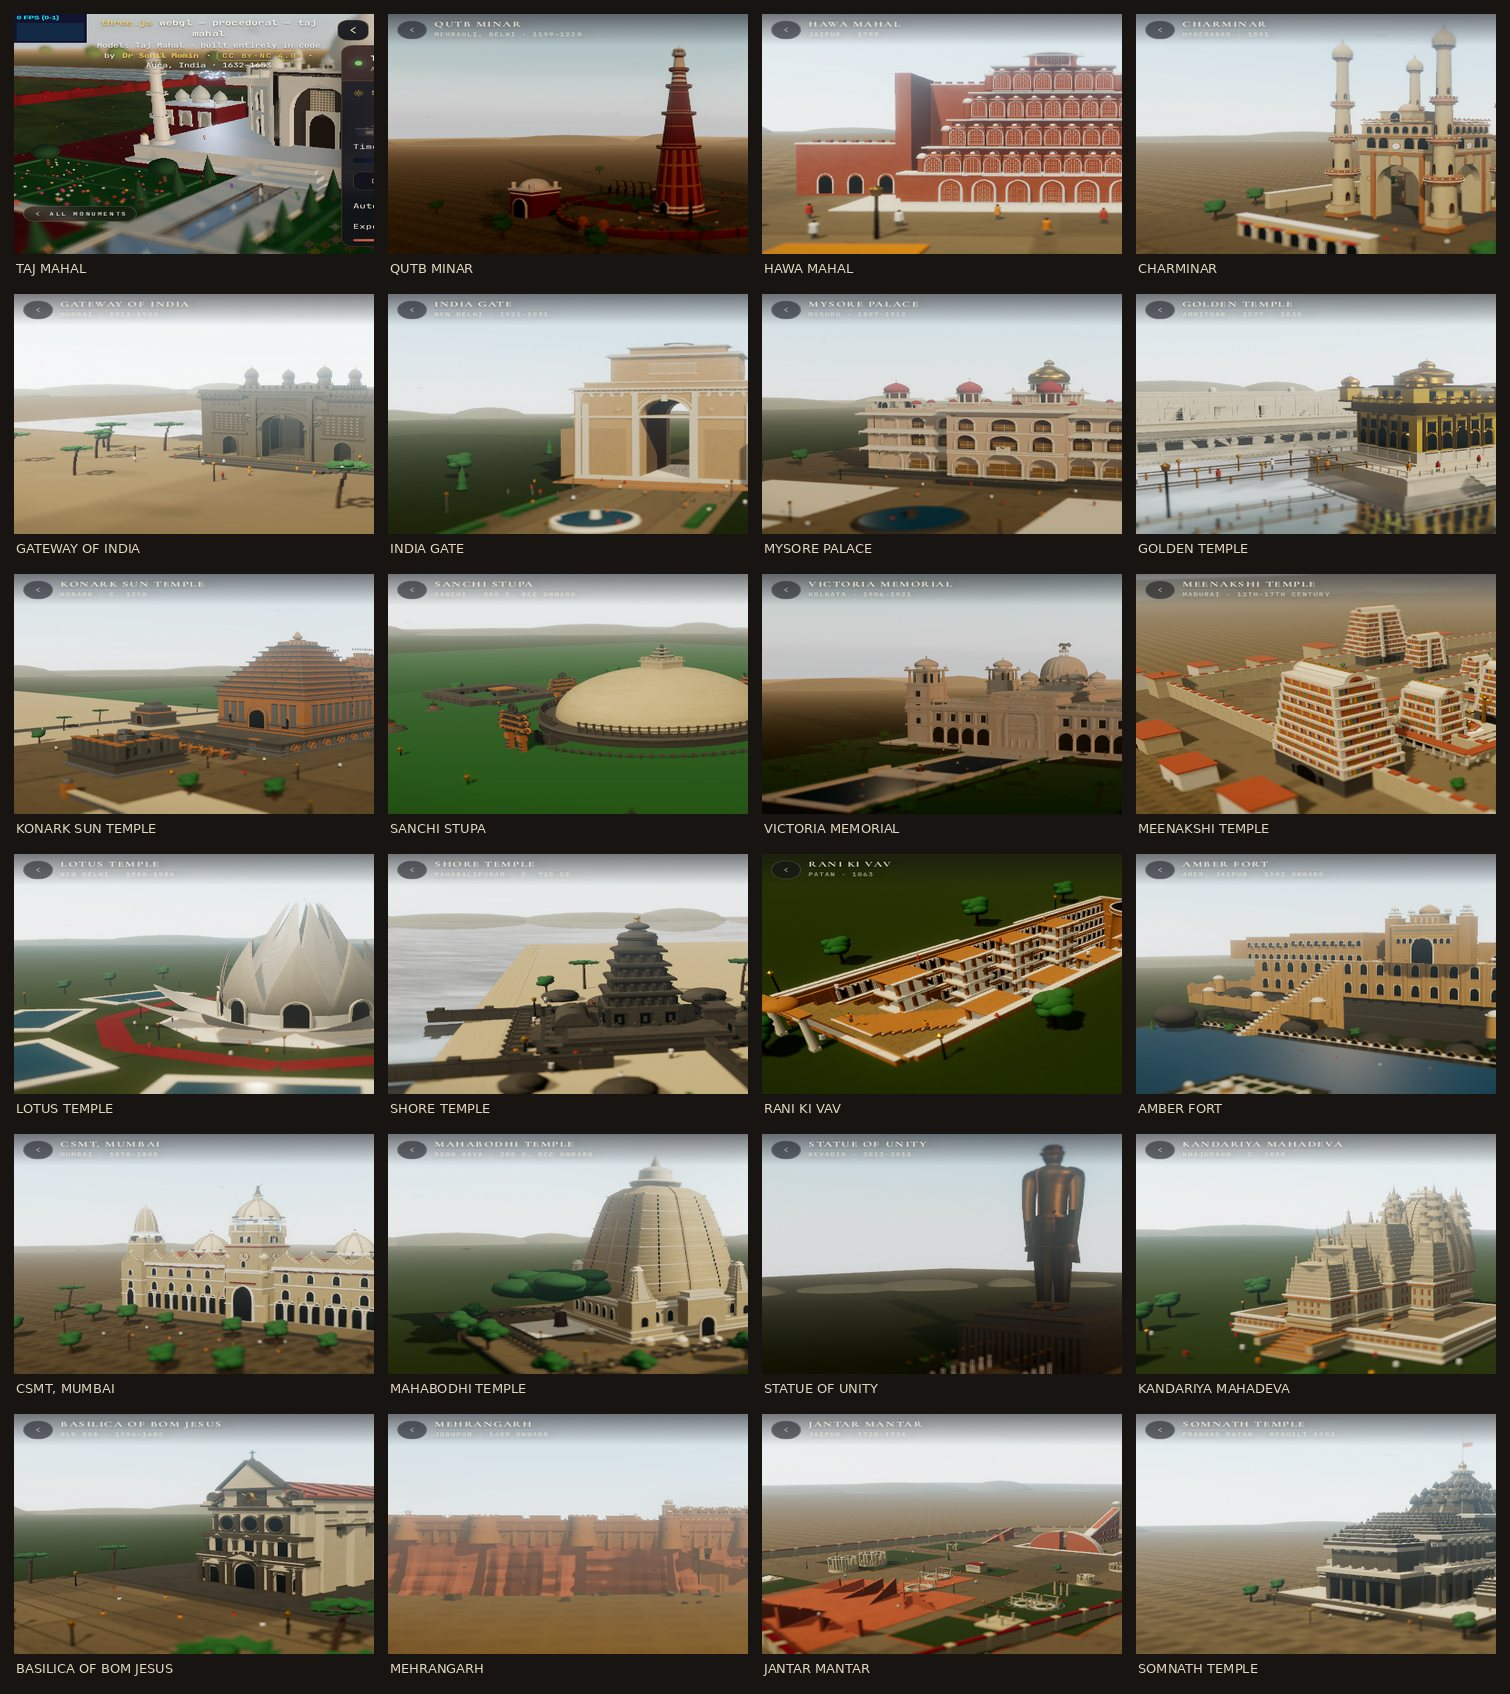
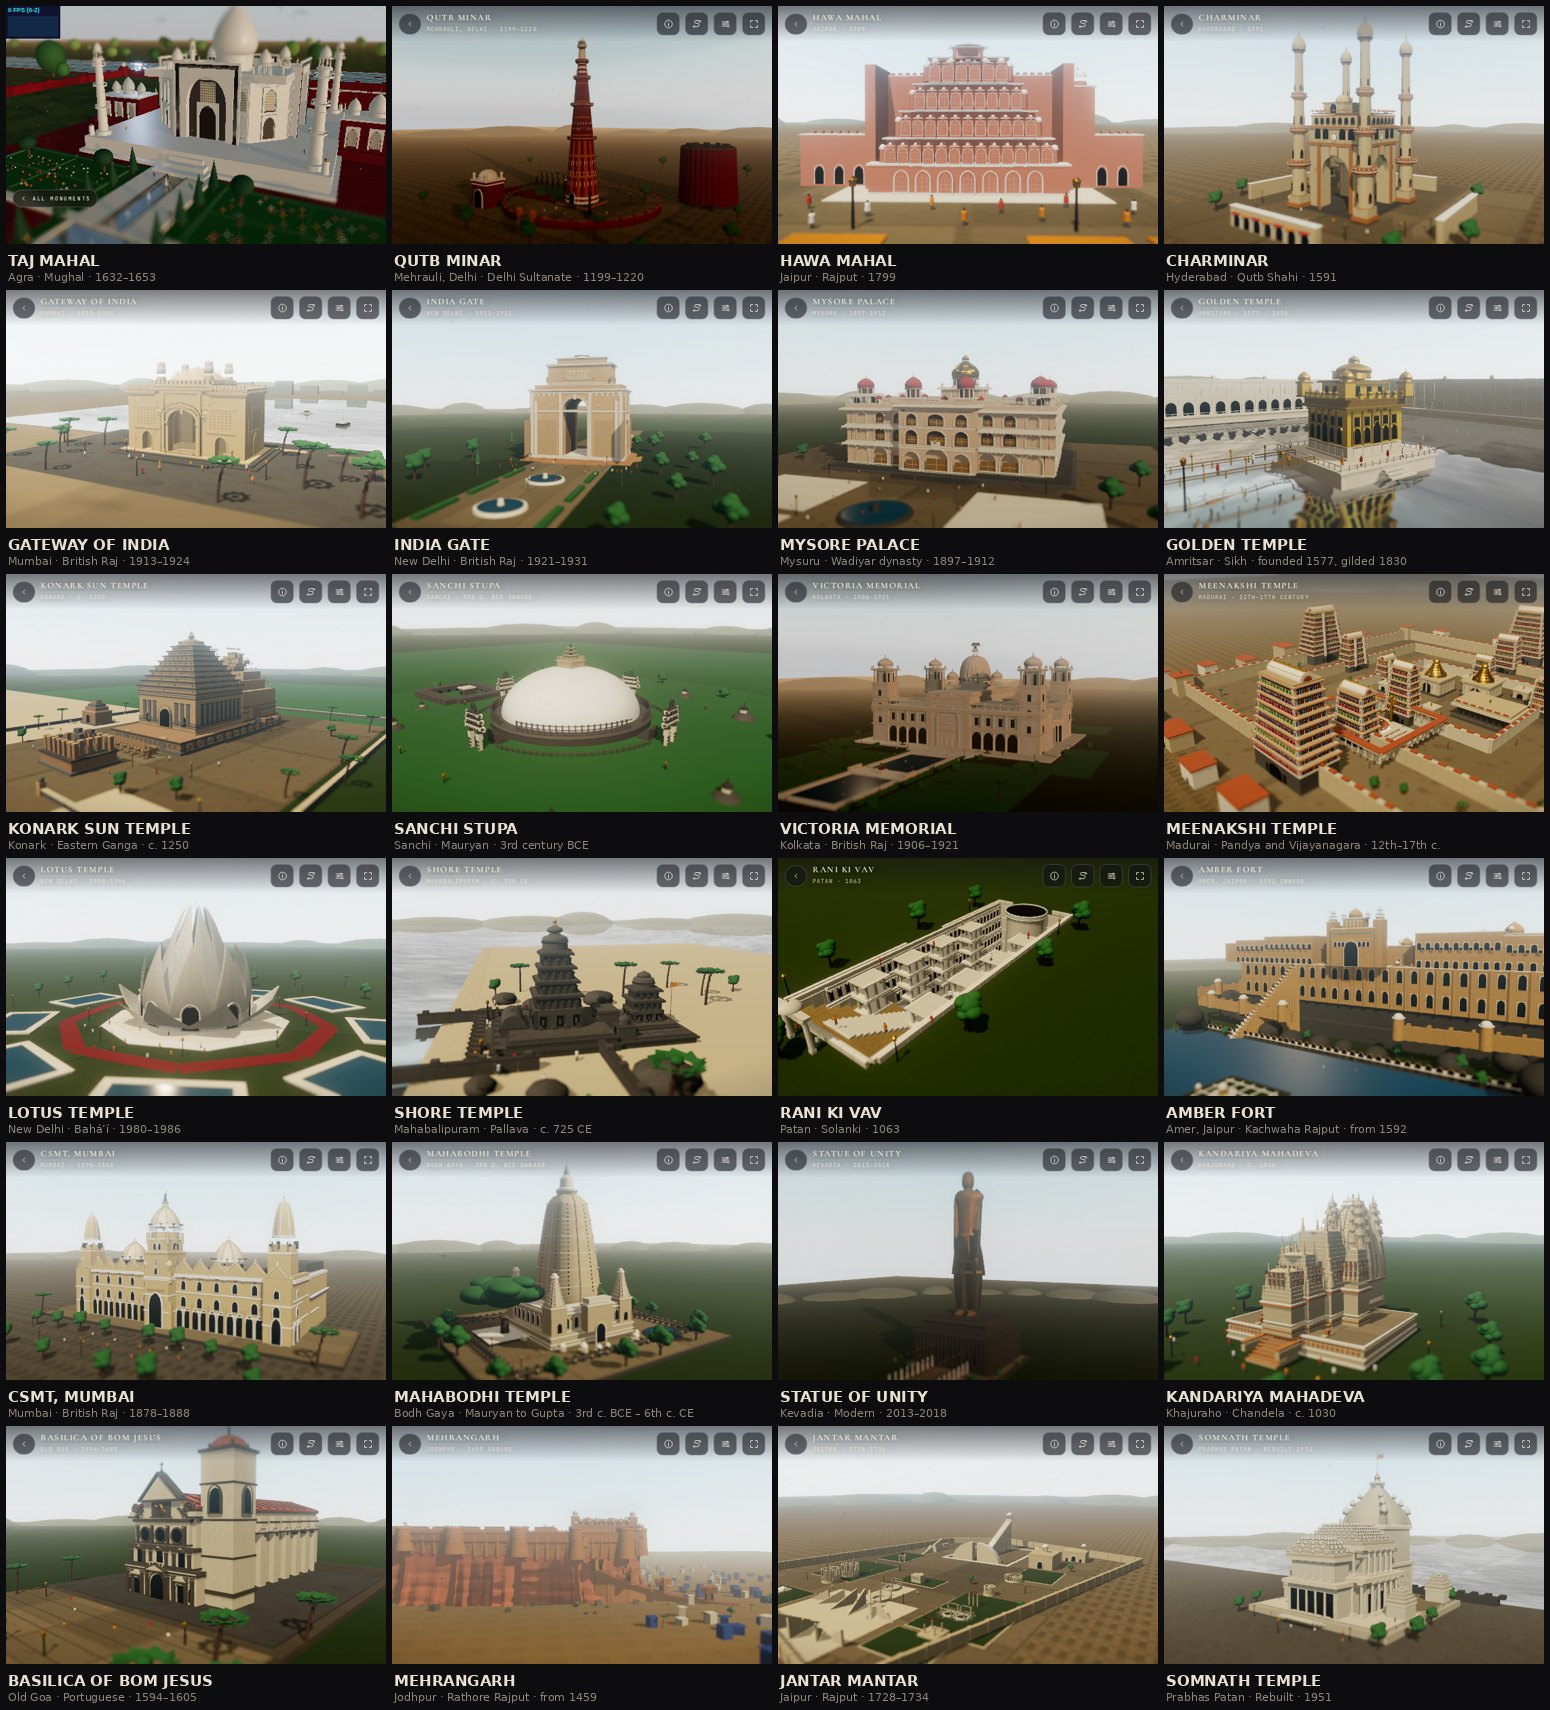
docs/gallery.jpg: rebuilt from the current renders
The repo's contact sheet was three sessions stale — it still showed Jantar Mantar
orange, Somnath dark, Konark cold grey, Hawa Mahal brick red, the Gateway grey
and Meenakshi's office blocks.

tools/build_gallery.py rebuilds it from shots/audit: 4 columns, name and
place/era under each tile. Run it after any pass that changes a page.

diff --git a/tools/build_gallery.py b/tools/build_gallery.py
@@ -1,0 +1,55 @@
+"""Rebuild docs/gallery.jpg — the repo's contact sheet of all 24.
+
+The old one was from the first session and showed every model before the repass:
+Jantar Mantar orange, Somnath dark, Konark cold grey, Hawa Mahal brick red, the
+Gateway grey, Meenakshi's office blocks. Regenerate from shots/audit/ after any
+pass that changes a page.
+
+    python3 tools/build_gallery.py
+"""
+import json, os
+from PIL import Image, ImageDraw, ImageFont
+
+ROOT = os.path.dirname(os.path.dirname(os.path.abspath(__file__)))
+SRC = os.path.join(ROOT, 'shots', 'audit')
+OUT = os.path.join(ROOT, 'docs', 'gallery.jpg')
+
+COLS, TW, TH, GAP, LAB = 4, 380, 238, 6, 40
+
+
+def font(size, bold=False):
+    for p in ('/usr/share/fonts/truetype/dejavu/DejaVuSans%s.ttf' % ('-Bold' if bold else ''),
+              '/usr/share/fonts/truetype/liberation/LiberationSans%s.ttf' % ('-Bold' if bold else '')):
+        if os.path.exists(p):
+            return ImageFont.truetype(p, size)
+    return ImageFont.load_default()
+
+
+def main():
+    data = json.load(open(os.path.join(ROOT, 'data', 'monuments.json')))
+    rows = (len(data) + COLS - 1) // COLS
+    W = COLS * (TW + GAP) + GAP
+    H = rows * (TH + LAB + GAP) + GAP
+    img = Image.new('RGB', (W, H), (13, 13, 15))
+    d = ImageDraw.Draw(img)
+    f_name, f_sub = font(15, True), font(11)
+
+    for i, m in enumerate(data):
+        path = os.path.join(SRC, m['id'] + '-560x350.png')
+        if not os.path.exists(path):
+            print('  missing tile:', m['id'])
+            continue
+        r, c = divmod(i, COLS)
+        x = GAP + c * (TW + GAP)
+        y = GAP + r * (TH + LAB + GAP)
+        img.paste(Image.open(path).convert('RGB').resize((TW, TH)), (x, y))
+        d.text((x + 2, y + TH + 8), m['name'].upper(), fill=(232, 226, 212), font=f_name)
+        sub = ' · '.join([m.get('place', ''), m.get('era', '')]).strip(' ·')
+        d.text((x + 2, y + TH + 26), sub, fill=(140, 134, 122), font=f_sub)
+
+    img.save(OUT, quality=86)
+    print(f'{OUT}  {img.size[0]}x{img.size[1]}  {len(data)} monuments')
+
+
+if __name__ == '__main__':
+    main()

diff --git a/HANDOFF.md b/HANDOFF.md
@@ -34,7 +34,7 @@ index.html, credits.html       generated from tools/templates/
 tools/                         build + QA scripts (see below)
 DIMENSIONS.md                  every model's figures with a source per row
 ROADMAP.md                     what each monument still needs, ranked
-docs/gallery.jpg               contact sheet of all 24
+docs/gallery.jpg               contact sheet of all 24 (tools/build_gallery.py)
 LICENSE, NOTICE                CC BY-NC 4.0 with a licence history
 ```
 
@@ -483,6 +483,24 @@ detail and the wheels.
 
 Shore Temple was checked at the same time and left alone: Pallava granite really
 is a dark grey-brown, and the page reads correctly for what it is.
+
+---
+
+### 20. The repo's gallery was three sessions stale
+
+`docs/gallery.jpg` is the repo's own record of the 24, and it still showed every
+model from before the repass: Jantar Mantar orange, Somnath dark, Konark cold
+grey, Hawa Mahal brick red, the Gateway grey, Meenakshi's office blocks.
+
+`tools/build_gallery.py` rebuilds it from `shots/audit/` — 4 columns, name and
+place/era under each tile, 1550x1710. Run it after any pass that changes a page.
+
+The Taj tile needs `taj_tile.py`-style handling (12 s after `__tajReady`, with
+`#info`, `#panel` and `#cluster` hidden) or it catches the intro overlay and the
+demo page's credit block.
+
+`docs/preview.jpg` is the README hero and is a *photograph*, not a render — it
+does not go stale with the models.
 
 ---
 
